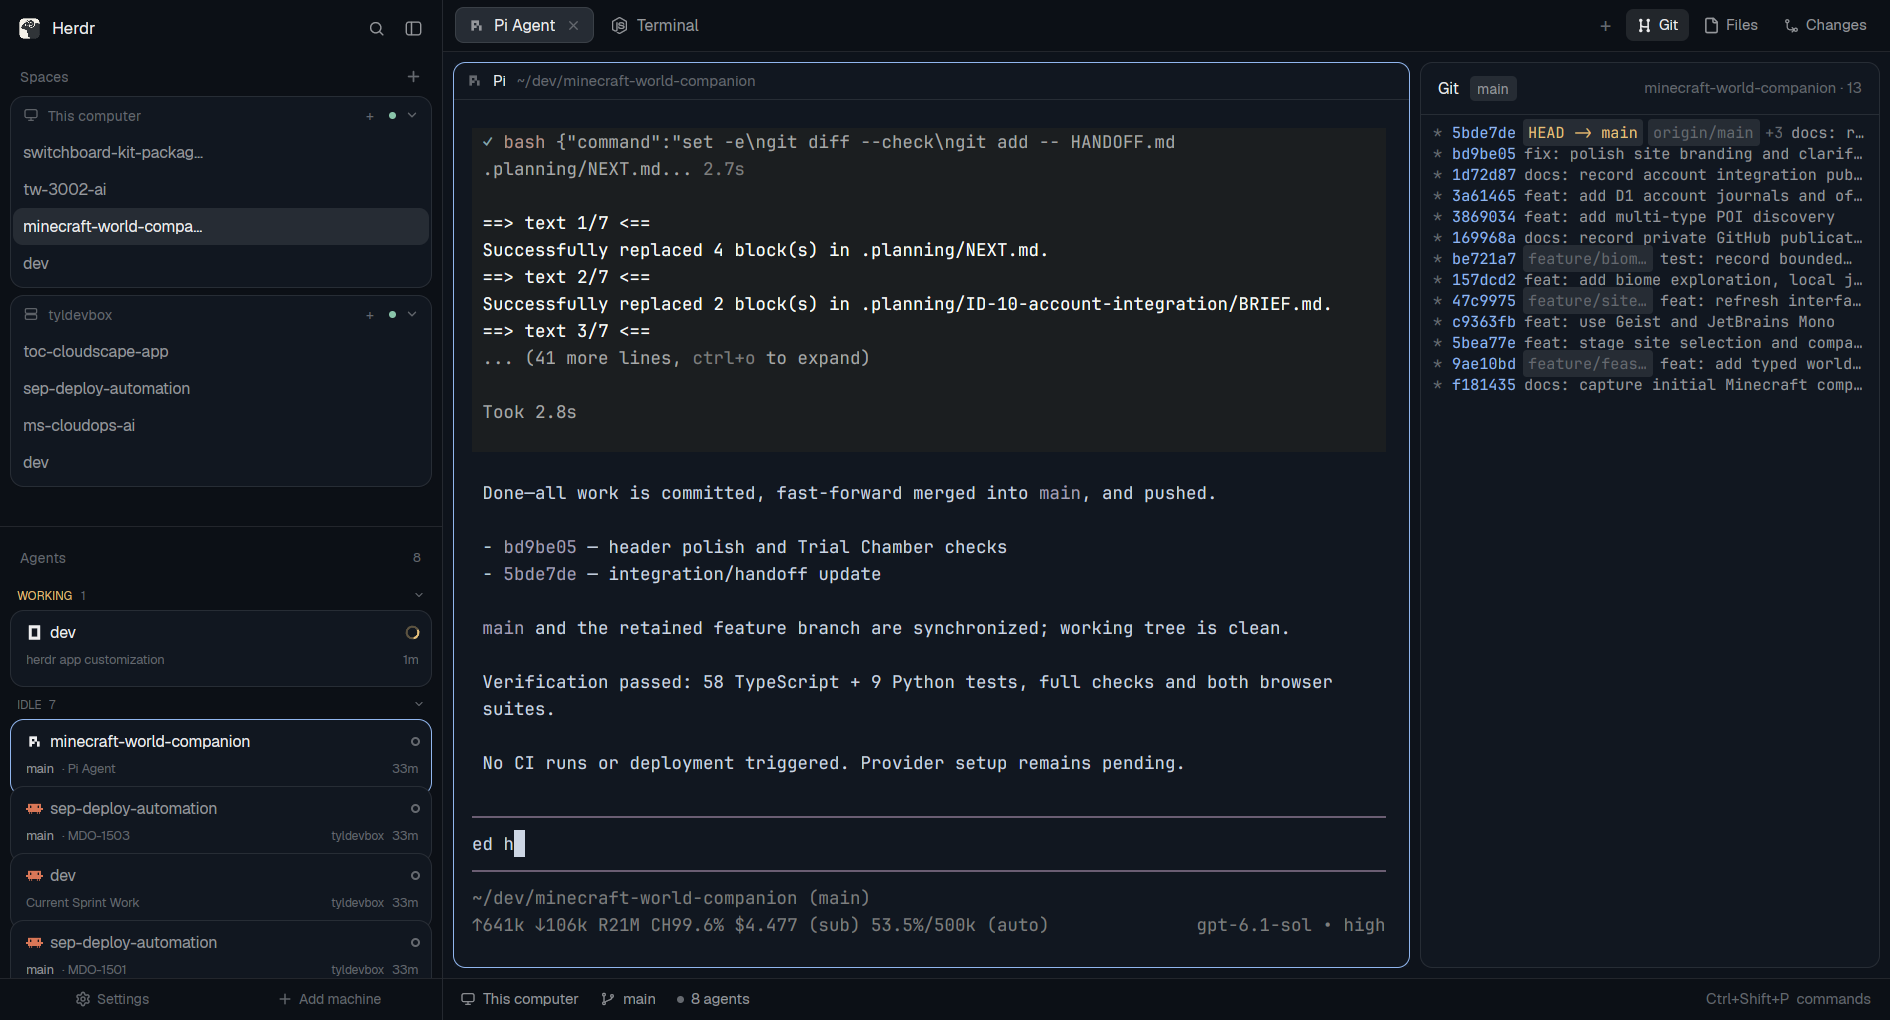
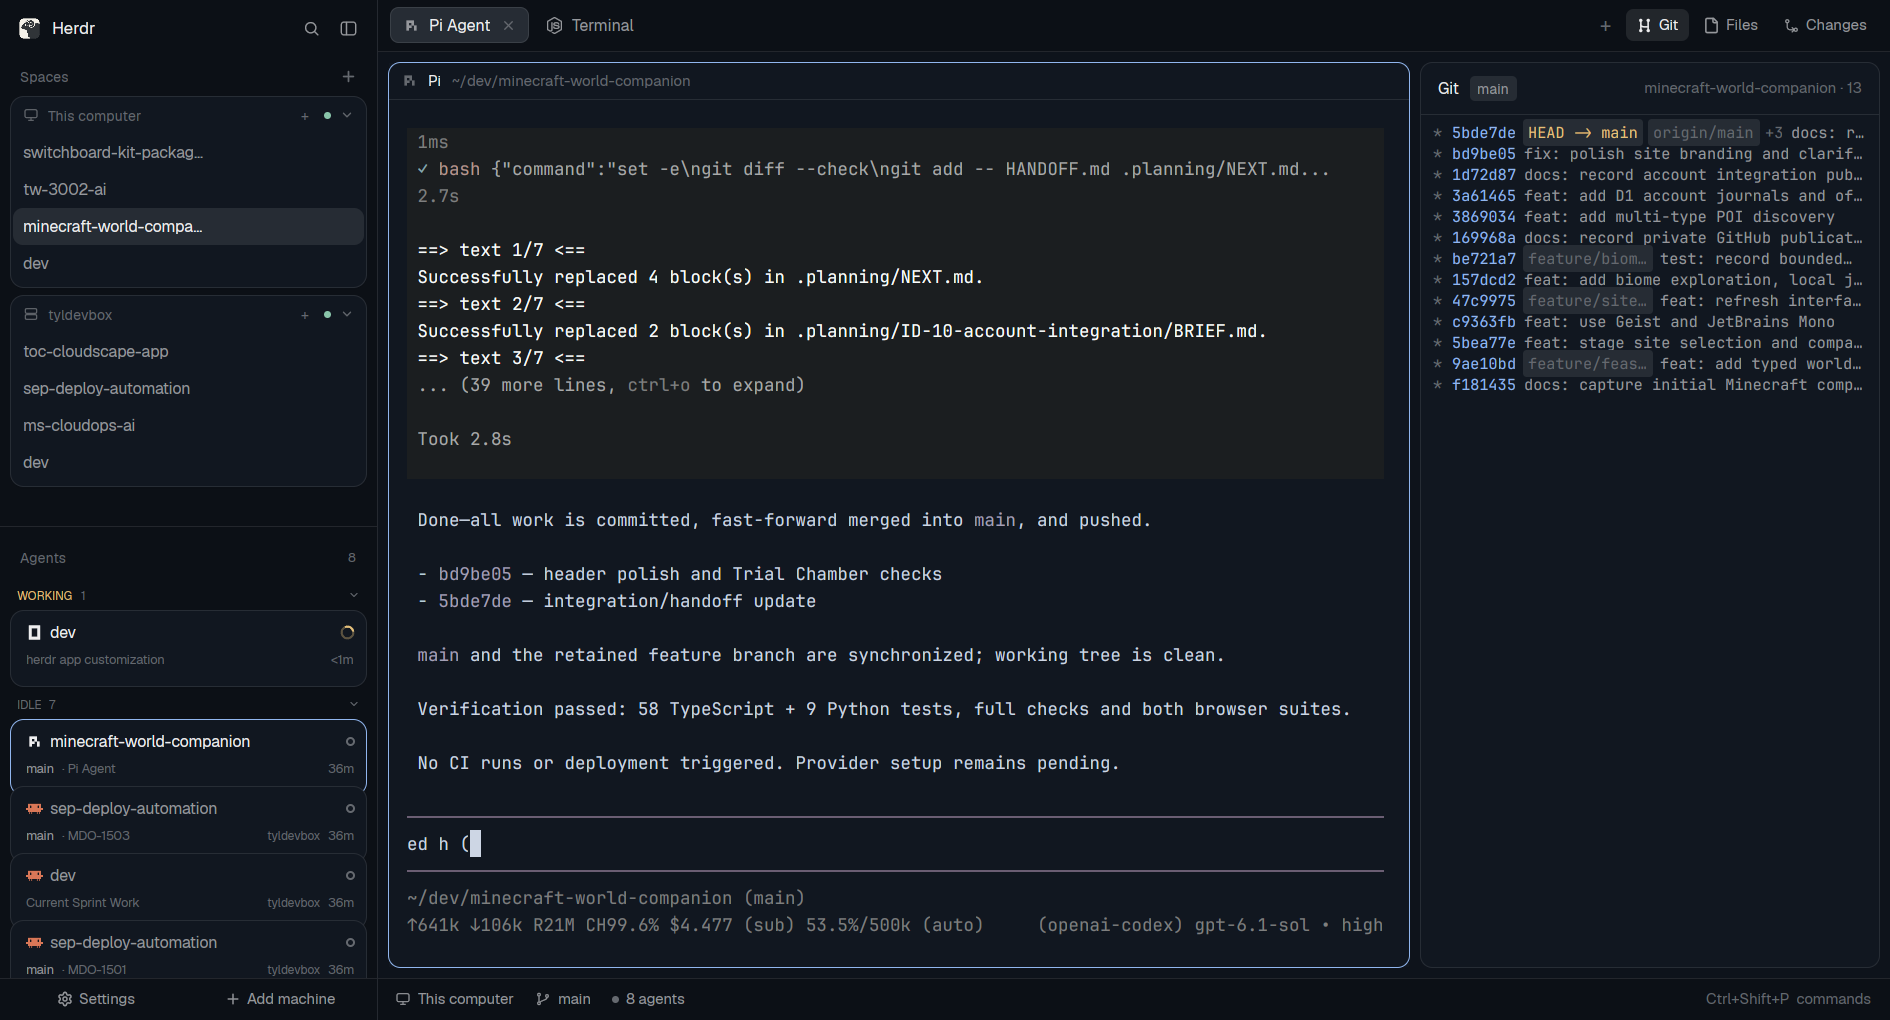
Footer text matches the status bar

diff --git a/mods/footer/main.js b/mods/footer/main.js
@@ -18,7 +18,7 @@ const narrow = () => (find(layout(), "sidebar")?.size?.px ?? Infinity) < 160;
 export default class Footer extends View {
   button(t, id, icon, label, action) {
     return h_flex().id(id).flex_1().min_w(0).h_full().gap(5).items_center().justify_center()
-      .rounded(6).text_size(11).text_color(t.dim).cursor_pointer()
+      .rounded(6).text_size(11.8).text_color(t.muted).cursor_pointer()
       .hover((s) => s.bg(t.hover).text_color(t.foreground))
       .on_click(action)
       .child(svg(`mods/workspace-chrome/${icon}.svg`).size(13).flex_none())

diff --git a/RECIPE.md b/RECIPE.md
@@ -21,8 +21,9 @@ mods draw a compact rail below 160 px.
 - A 46 px brand strip at the top (`workspace-chrome`), draggable to move the
   window.
 - A 34 px footer (`footer`): **Settings** and **Add machine** side by side,
-  11 px `dim` text with a 13 px icon each, 6 px padding. In the rail only the
-  icons show. Settings carries a 5 px accent dot when an update is ready.
+  11.8 px `muted` text (the status bar's size and colour) with a 13 px icon
+  each, 6 px padding. In the rail only the icons show. Settings carries a 5 px
+  accent dot when an update is ready.
 - **Spaces** and the **Agents deck**, each a `weight: 1` block with `min: 90`.
 - Each machine is one card, styled like the agent cards: `background`, 11 px
   radius, a 1 px `border` and a 2xs shadow. Its 30 px header holds a server or
@@ -136,8 +137,9 @@ The layout is `layouts/rotom.json`: one row root (`theme: "ink"`,
 
 The layout records `cloned_from: {name: "main", version: "0.1.13"}`.
 
-**`mods/footer`** (new, small): a 34 px footer bar. Two flex-1 buttons, 11 px
-`dim` text that turns `foreground` over a `hover` background, each with a
+**`mods/footer`** (new, small): a 34 px footer bar. Two flex-1 buttons,
+11.8 px `muted` text (matching the status bar) that turns `foreground` over a
+`hover` background, each with a
 13 px icon from the shipped `workspace-chrome`: `settings.svg` for
 `run("app.settings")` (plus the update dot from `updates().app.ready`) and
 `plus.svg` for `run("mod.open", { name: "machine-add" })`. Below 160 px of
